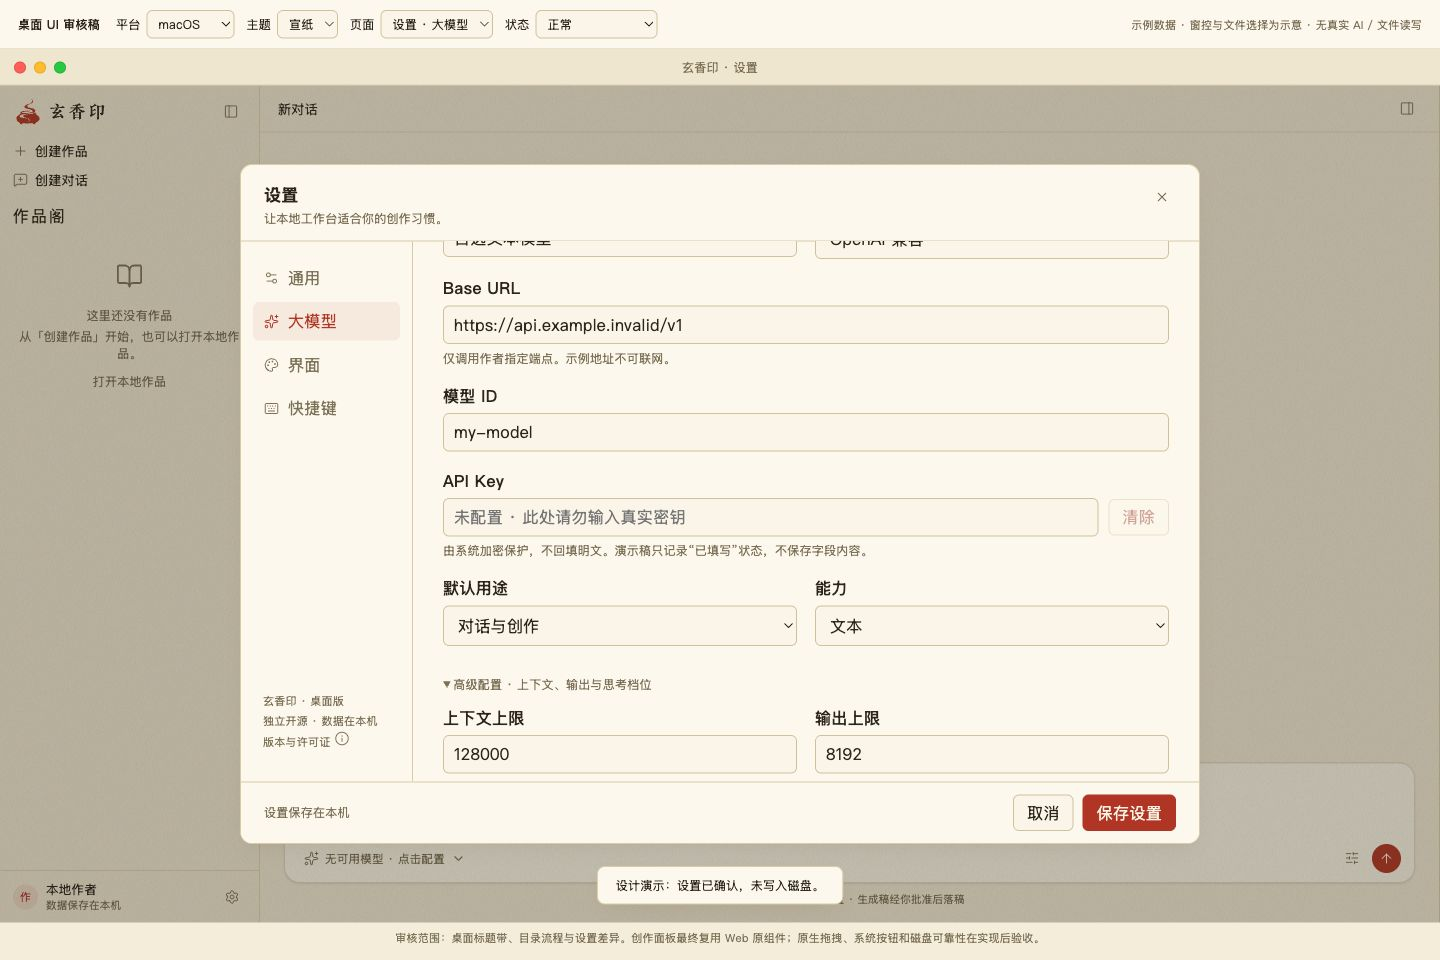
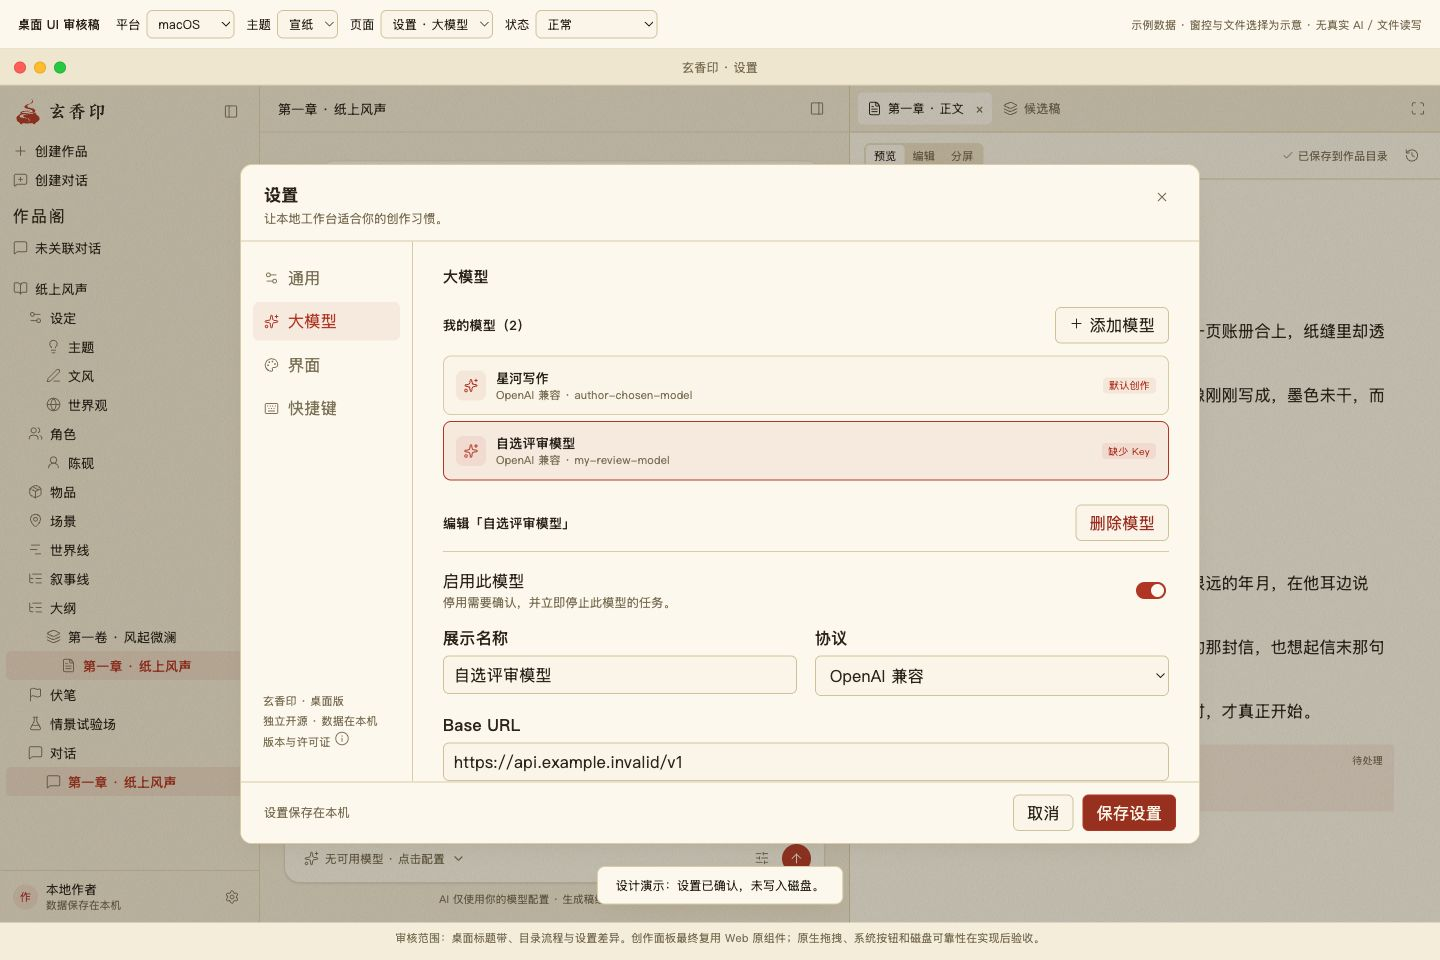
docs: record passed UI review and user approval gate

diff --git a/docs/reviews/02-ui-review.md b/docs/reviews/02-ui-review.md
@@ -1,0 +1,90 @@
+# 桌面 UI 设计独立审核
+
+审核日期：2026-10-06（Asia/Shanghai）。审核者：独立 UI 审核子代理。
+
+被审材料：`02-product-design.md` v0.2、`product-capability-matrix.md`、`03-ui-design.md` v0.1；`design/desktop-preview.html`、`.css`、`.js`、全部 20 张 `design/evidence/*.png` 与 `assets-provenance.json`。在已安装 Chrome 中对 `http://127.0.0.1:4187/design/desktop-preview.html` 执行独立交互检查，未调用真实模型、读取用户作品或修改被审原型及 Web 源码。
+
+## 首审结论
+
+**暂不通过。修复 UI-01–UI-10 后复审，再提交用户批准；现在不能进入技术方案。** 这些问题是桌面新增交互设计与其演示状态之间的偏差，不要求重画原创作面板或缩减产品能力。
+
+首审采用开始审核时的 v0.1 原型。审核途中作者开始修改 `.js`，因此下列发现记录首次实际执行的结果；不把随后未复核的修改算作通过。最终结论应在本文件追加独立复审记录。
+
+## 发现与修复要求
+
+| 编号 | 程度 / 需求 | 观察与影响 | 修复要求 |
+| --- | --- | --- | --- |
+| UI-01 | P1，阻断；R07 / D01 / X04 | 在向导选择 `~/作品/审核作品` 后取消，再次创建时旧路径仍在且两个创建按钮已启用。完成手动创建后再创建下一部作品，旧路径仍被当成有效授权。聊天入口共享同一 `state.directory`。这与“每部作品显式指定独立目录”及取消不保留有效建书请求相冲突。 | 将目录授权限定于当前创建请求；取消、新请求或已消费授权后清除。继续同一挂起草稿时可以明确恢复该请求，但新作品必须重新确认且检查已绑定目录。原型至少演示第二部作品不能直接使用第一部作品授权。 |
+| UI-02 | P1，阻断；R03 / R08 / D03 | 点击清除 Key → 确认撤销后显示“未配置”及“调用暂停”；随后点击设置“取消”并重开，大模型又显示“已配置”。`discard()` 恢复了撤销前基线。删除模型首审也复用该行为。已明确确认的撤销被普通设置取消恢复，用户无法判断是否仍可能发起调用。 | 撤销确认作为立即生效的独立动作；取消其他表单修改不得恢复 Key、启用状态或已删除模型。更新基线并展示撤销后的列表/用途状态，保留草稿和候选。删除、清除及禁用各自给出一致的确认与结果。 |
+| UI-03 | P1，阻断；R06 / D02 | 迁移到“提交路径 / 80%”后，底部取消按钮禁用且写明“已提交”；按 Escape 却直接隐藏迁移并清除计时器。关闭按钮有阶段保护，键盘关闭没有，违背提交后只显示状态和完成动作的设计。 | 所有关闭路径共用同一迁移阶段守卫，包括 Escape、标题关闭及页面切换。提交前取消返回旧根；提交后等待清理完成或明确待清理状态，不能中断并伪装返回。 |
+| UI-04 | P2；R06 / R08 / D02 | Windows 演示迁移到 `D:\\玄香印数据\\` 并显示完成后，通用设置仍显示 `%USERPROFILE%\\.xuanxiang\\`。旧副本待清理页面也同时展示旧“当前数据目录”和“当前使用新目录”的说明。迁移目标固定，尚无可选择目标的入口。 | 分别显示原根、所选目标与当前权威根；提交后更新通用设置，两平台一致。待清理状态明确新根已启用与残留范围。增加目标选择/校验的示意入口，失败重试回到选择或校验，避免固定目标被当作产品限制。 |
+| UI-05 | P2；R08 / D04 / X01 | 隐藏内容区 → 打开界面设置 → 恢复默认布局 → 取消，工作台仍恢复成三栏。主题与字号基线会恢复，布局的显隐/全屏/侧栏状态不在首审基线中。 | 保存进入设置时的布局预览状态；取消/放弃恢复它，保存后再确认新布局。保留当前正文实例、草稿与 Tab，不因设置取消重新建工作台。 |
+| UI-06 | P2；R08 / D04 | 在快捷键页录制创建作品为 `Ctrl+Alt+N` 并点击“使用此快捷键”后，表格仍显示原 `⌘ N`；首审只判断是否等于保存键，没有展示新绑定或保存/取消后的状态。 | 在内存示意中保留当前命令的新绑定并立即更新键帽；取消恢复旧值，保存确认新值。冲突提示显示具体两个命令和当前平台键名；空值/系统保留键/重复绑定各有设计状态。无需在原型注册真实系统快捷键。 |
+| UI-07 | P2；R04 / R05 / D05 / X01 | 640px 工作台侧栏被 CSS 永久隐藏，点击“显示左侧导航栏”后仍不可见，创建作品/设置等入口不可达。1024px Windows 下，长作品标题可进入右侧 138px 窗控区，安全区只在 700px 以下设置。固定示例标题截图没有暴露这两个问题。 | 沿原窄窗切换策略允许重新进入侧栏及设置；保证返回对话/内容。所有宽度给系统控件预留实际安全区，标题限制宽度并截断，完整标题仍可获知。补窄窗与长标题的设计证据，不用隐藏必要入口消除溢出。 |
+| UI-08 | P2；R06 / R08 / D02 / D06 | U10 写“草稿/备份列表”，但通用页“查看备份与恢复”只打开单份崩溃草稿；没有备份列表/校验结果及根失联“重新定位 / 从备份恢复”稿。恢复页选择保存失败仅替换说明，缺少“重试保存 / 取消关闭”，X 仍能直接隐藏。用户尚无法审核关键恢复路径。 | 补充根失联、备份选择/校验/失败、关闭保存失败的可预览状态或明确分开的设计稿。关闭失败提供三动作并保留草稿；普通关闭草稿提示与取消 App 关闭含义要区分。健康作品恢复先比较，不静默覆盖。 |
+| UI-09 | P2；R03 / R08 / D03 | 从首次空态点击“添加你的模型”，首审直接进入已配置“星河写作”；U06 所称空列表无法预览。“添加模型”仅说明弹窗，删除不移除行。多模型选择、启用状态和可用思考档位没有设计控件；高级摘要写有思考档位却没有对应输入。 | 展示真实空列表 → 添加 → 多模型列表/编辑的设计状态；分别显示启用/禁用、删除、清除 Key、用途失效状态及思考档位字段。字段仍用原表单视觉，所有测试前保留费用确认，保存不联网。原型允许模拟，不要求现在实现存储或供应商适配。 |
+| UI-10 | P2；R04 / R07 / R08 / D01 / D06 | “创建并手动写作”后仍展示原示例作品的已有正文，并清空模板草稿；产品规定打开新作品概览、模板草稿留在关联会话。恢复到编辑草稿只显示 toast，原内容仍为预览稿，未呈现恢复草稿待提交。成功提示与可见状态不一致。 | 演示新建空作品/概览和保留的模板草稿，或明确提示该后续原组件画面未展开，避免旧正文被误认为新建结果。恢复操作切到待提交编辑草稿并保留当前已保存版本，不能仅用 toast 代替可审核结果。 |
+
+## 已确认符合的部分
+
+| 审核项 | 结果与证据 |
+| --- | --- |
+| 原 UI 复用边界 | 文档第 1–2 节和预览控制条/页脚明确最终复用原 React 工作台，HTML 仅展示桌面差异；未用该稿声称 29 个创作面板已迁移。用户对差异稿的批准不能替代最终原组件一致性验收。 |
+| 品牌与主题来源 | 四个 SVG 的 SHA-256 与 provenance 一致，逐字节等于冻结提交 `55a62560dc4818143469abb12717a23c752ade8c` 对应资产。CSS 主题令牌块等于该提交的原 `globals.css`，仅前置来源注释。仅 paper/ink，无第三主题；本地字体与图标有许可文件。 |
+| 两平台窗口位置 | 20 张截图显示 macOS 左交通灯、Windows 右按钮，36px 标题带清晰。示意控件与原生验收边界明确；未将浏览器图标点击算作关闭/最小化/最大化验收。长标题安全区见 UI-07。 |
+| 首次布局与离线入口 | 首次稿是侧栏 + 对话两栏，内容隐藏；模型缺失提示与人工创建入口可见。日常稿恢复三栏和内容显隐；窄窗侧栏缺陷见 UI-07。 |
+| 目录冲突 | 未选择时创建动作禁用；目录冲突状态有行内原因并阻止创建。向导和聊天授权都存在目录行，AI 不自行选目录的说明明确；跨请求授权缺陷见 UI-01。 |
+| 四设置组与脏状态 | 通用/大模型/界面/快捷键导航可见；编辑作者名后切分组弹“继续编辑 / 放弃 / 保存并继续”，继续编辑保留输入。主题即时预览后取消恢复进入前主题；保存失败保留输入。布局与快捷键见 UI-05/06。 |
+| 测试费用和隐私提示 | 模型测试前展示端点、模型、短文本与供应商费用；测试中可停止。示例无实际调用；Key 不回填明文，输入框提示勿填真实 Key，导出文案不含 Key。 |
+| 迁移与原稿保护说明 | 确认稿说明作品目录不移动、清理本应用范围、未知文件不清理、新根快照及引导指针；失败声明旧根权威，待清理单独警示。恢复比较稿声明先进入草稿且不覆盖当前版本；交互结果欠缺见 UI-03/04/08/10。 |
+
+## 检查范围及后续门
+
+实际检查包括全部现有 PNG、静态 HTML/CSS/JS、资产来源，及 Chrome 中目录取消/下一作品、Key 撤销/取消、布局取消、快捷键录制、迁移前后/两平台目录、Escape、640px 导航与长标题等交互。检查使用演示内存状态，不验证磁盘写入、加密、模型调用、真实窗口拖拽或系统按钮，也不属于后续测试用例文档和 App 验收。
+
+修复后须独立复审，记录每项关闭依据；随后由用户明确批准 UI。技术方案、TDD 实现与真实 Electron 测试仍必须按用户指定顺序完成。真实 macOS 与 Windows 安装、窗口/输入法、目录/恢复可靠性以及完整能力验收不能由平台切换截图或该浏览器原型代替。
+
+## v0.3 最终复审结论
+
+**UI 设计审核通过，UI-01–UI-10 已关闭；等待用户明确批准后才进入技术方案。** 本结论来自独立 UI 审核子代理在本次对话返回的复审意见，以下由主代理归档；不是主代理替代独立审核。
+
+审核者原文结论：
+
+> 收尾只读复核显示 v0.3 四哈希匹配，closeSurface(false/true)、new-chat、已绑定目录、syncModal/hideSub/Tab/Escape 与产品语义一致，未见剩余设计阻断，可关闭 UI-01–10。
+
+### 复审方式与限制
+
+v0.2 复审尝试通过 cua_repl；子代理的浏览器接口不可用，因此使用原生 Chrome，在实际复核中发现聊天取消授权与双模态 AX/焦点遗漏。环境中出现用户切换标签后停止在那里输入。v0.3 收尾采用已执行交互、冻结源码、新截图和主代理原型检查证据；审核者没有完整独立重放 129 项，不把主代理的执行记录冒充子代理独立执行。主代理通过内置浏览器 / cua_repl 单独补查了聊天取消重发、新聊天隔离、目录绑定、AX/焦点、迁移页面切换与恢复比较。
+
+### 逐项关闭依据
+
+| 项目 | 最终依据 | 状态 |
+| --- | --- | --- |
+| UI-01 | 新建流程重新取得目录；`closeSurface(false)` 清除取消授权；仅当前挂起草稿与创建消费使用 `true`；新对话清除旧授权；已绑定路径报错禁止创建。`revision-checks.json` 包含取消后重发、新聊天与同路径第二作品断言。 | 关闭 |
+| UI-02 | `revokeModel()` 更新模型集合、可用状态及取消基线；清 Key、删除、停用分别确认并立即生效。取消普通设置不复活授权。 | 关闭 |
+| UI-03 | `closeSurface()` 与 `go()` 共用提交后的阶段保护；X/底部返回/Escape/预览页切换不能中止已提交迁移。 | 关闭 |
+| UI-04 | 明确选择目标并校验；源、目标与权威根分开；提交阶段更新 Mac/Windows 根；待清理保留原根信息，失败重选后重新校验。 | 关闭 |
+| UI-05 | `snapshot()` 包含布局、内容显隐与键绑定，`discard()` 恢复布局及字级，不重建或丢弃对话草稿。 | 关闭 |
+| UI-06 | 录制绑定立即更新对应命令；空值、保留键、重复命令行内阻止；保存/取消分别确认/恢复。 | 关闭 |
+| UI-07 | 640px 侧栏可重新打开，内容可返回对话并进入导航；全部宽度保留系统控件安全区；长标题截断并提供完整提示。 | 关闭 |
+| UI-08 | 根失联、应用根快照/作品备份、校验失败与关闭保存失败均可预览；恢复根需确认目录；关闭失败提供重试/导出/取消关闭。 | 关闭 |
+| UI-09 | 初次空模型列表 → 添加表单 → 多模型可选择；启用、删除、清 Key、用途/能力/思考字段齐备；不可用模型阻止测试。 | 关闭 |
+| UI-10 | 手动创建展示空作品概览并保留模板草稿；恢复进入可编辑未提交稿，继续编辑后的比较同步，已保存稿保留。 | 关闭 |
+
+新增模态修复：`syncModal()` 将焦点放在最高层，对下层设置/向导与工作台使用 inert，并切换 aria-modal；`hideSub()` 恢复下层与焦点；Tab/Shift+Tab 在最高层循环，Escape 按当前层级关闭且遵守迁移守卫。
+
+### 证据质量补充
+
+审核者提出三个非阻断截图问题：旧根失联图仍写作品备份、旧损坏根快照按钮仍写查看比较、多模型截图未显示列表。主代理随后仅刷新 `root-unavailable.jpg`、`backup-invalid.jpg`、`models-multiple.jpg`，现分别显示应用数据恢复快照、禁用的选择恢复目录操作、两行模型列表。此处记录主代理刷新结果，不宣称子代理另行完整重放。冻结设计正文与 HTML/CSS/JS 均未因此改变。
+
+### 冻结与最终交付
+
[1 lines of base64/hex data omitted]
+
+| 文件 | SHA-256 |
+| --- | --- |
[3 lines of base64/hex data omitted]
+
+129 项结果、33 张 JPG 与设计稿均仅服务于 UI 审核。未验收 Electron、真实磁盘、密钥加密、供应商调用、macOS/Windows 原生窗控、安装包或完整创作能力。UI 子代理审核通过不能替代用户 UI 批准或后续真实桌面验收。

diff --git a/docs/00-delivery-status.md b/docs/00-delivery-status.md
@@ -6,7 +6,7 @@
 | --- | --- | --- | --- |
 | 1 | 调研文档 | 已产出 | `01-research.md`、`source-inventory.json` |
 | 2 | 产品设计 | 子代理复审通过 | `02-product-design.md`、能力矩阵、`reviews/01-product-review.md`；4项发现已关闭 |
-| 3 | UI 设计 | v0.3 子代理复审中 | `03-ui-design.md`、交互稿、129 项原型检查；仍需用户明确批准 |
+| 3 | UI 设计 | v0.3 子代理复审通过，待用户审核 | `03-ui-design.md`、`reviews/02-ui-review.md`；UI-01–10 已关闭；129 项原型检查；需用户明确批准 |
 | 4 | 技术方案 | 尚未开始 | UI 用户审核通过后开始 |
 | 5 | 测试用例 | 尚未开始 | 技术方案审核通过后开始 |
 | 6 | 代码实现 | 尚未开始 | 测试用例审核通过后，以 RED → GREEN → 重构推进 |
@@ -24,4 +24,4 @@
 
 ## 工作区
 
-该目录已初始化为独立 Git 仓库，远端为目标仓库。调研与已审产品设计已发布到远端（`9615571`）；UI 修订稿待独立复审完成后发布。上游 Web 项目的已有文件未修改。
+该目录已初始化为独立 Git 仓库，远端为目标仓库。调研与已审产品设计已发布到远端（`9615571`）；UI v0.3、交互稿与检查证据已发布（`9be0e4e`），最终独立审核记录随本阶段交付。上游 Web 项目的已有文件未修改。

diff --git a/README.md b/README.md
@@ -12,7 +12,7 @@
 
 1. [调研文档](docs/01-research.md)
 2. [产品设计](docs/02-product-design.md) → [子代理审核通过](docs/reviews/01-product-review.md)
-3. [UI 设计](docs/03-ui-design.md) → [子代理审核](docs/reviews/02-ui-review.md) → 等待用户审核
+3. [UI 设计](docs/03-ui-design.md) → [子代理复审通过](docs/reviews/02-ui-review.md) → 等待用户审核
 4. 技术方案 → 子代理审核
 5. 测试用例（含真实桌面用户场景）→ 子代理审核
 6. TDD 实现 → 子代理 code review

diff --git a/docs/03-ui-design.md b/docs/03-ui-design.md
@@ -1,6 +1,6 @@
 # 桌面 UI 设计
 
-版本：0.3；日期：2026-10-06；状态：初审发现已修复，子代理复审中，用户未审核。前序产品审核见 `reviews/01-product-review.md`。
+版本：0.3；日期：2026-10-06；状态：子代理复审通过，等待用户审核。前序产品审核见 `reviews/01-product-review.md`。
 
 ## 1. 审核材料与边界
 
